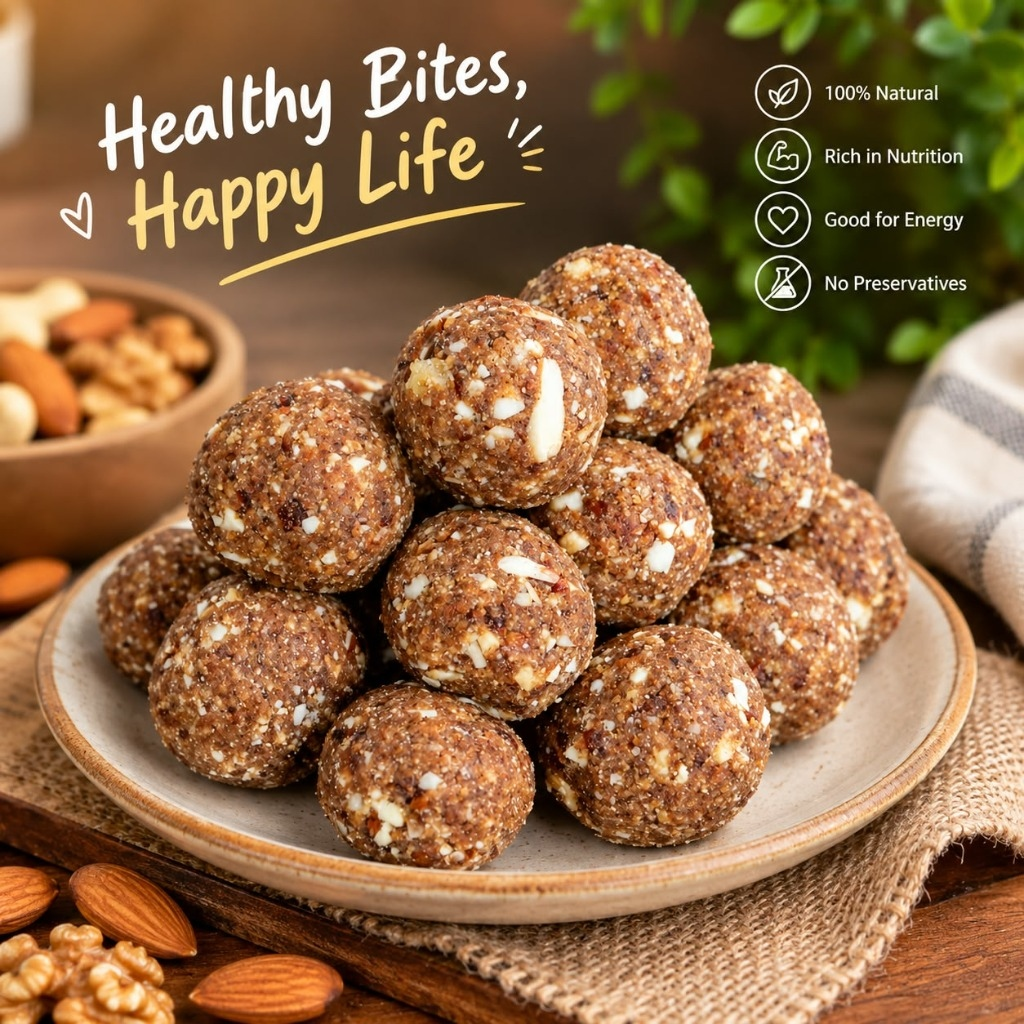
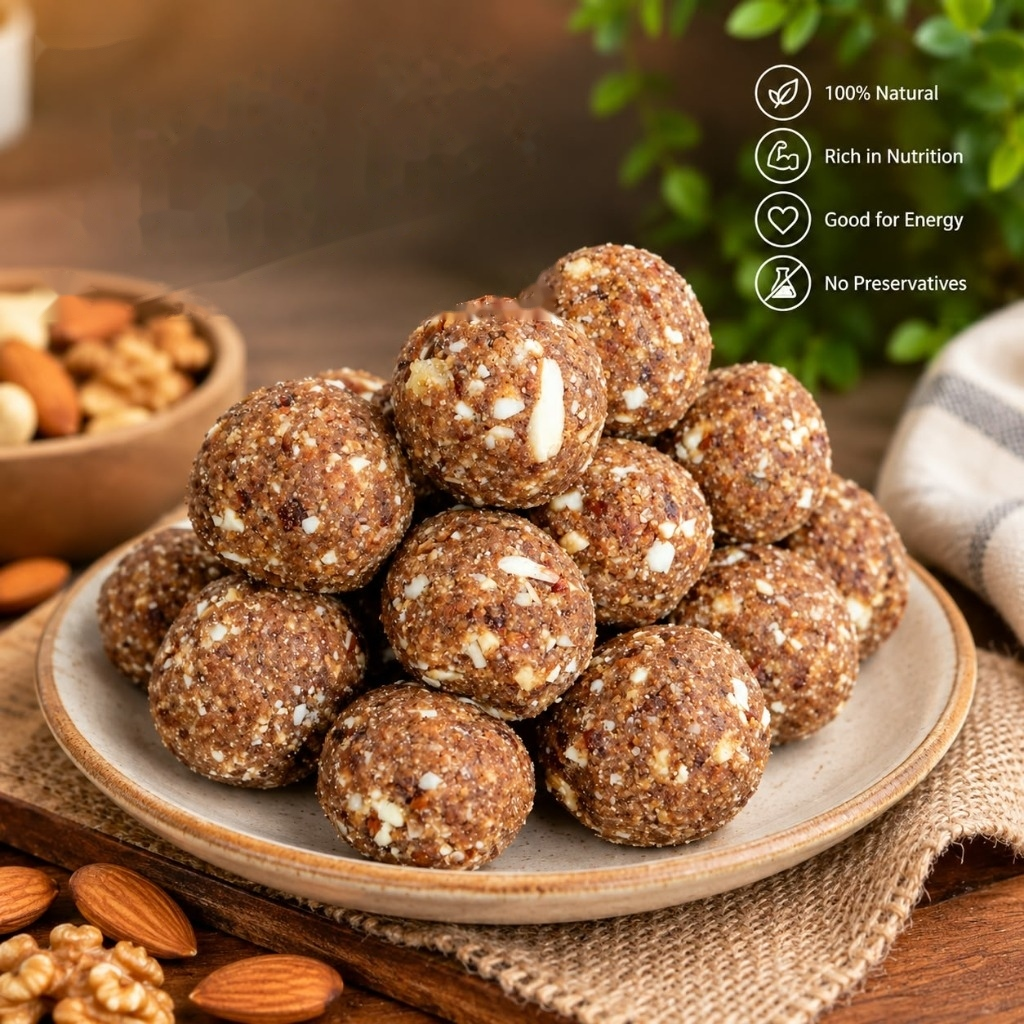
feat: cleanly remove 'Healthy Bites, Happy Life' text overlay from hero image

diff --git a/src/components/HeroSection.jsx b/src/components/HeroSection.jsx
@@ -63,7 +63,7 @@ export default function HeroSection() {
             <div className="inline-flex items-center gap-2 px-3.5 py-1.5 rounded-full bg-ivory border border-golden-amber/35 mb-5 shadow-soft">
               <span className="w-1.5 h-1.5 rounded-full bg-golden-amber animate-pulse" />
               <span className="text-[0.68rem] sm:text-xs font-semibold tracking-[0.22em] text-brand-brown uppercase">
-                Healthy Bites • Happy Life • Pure Cow Ghee
+                100% Natural • Pure Cow Ghee • Handcrafted Daily
               </span>
             </div>
 
@@ -80,7 +80,7 @@ export default function HeroSection() {
 
             {/* Supporting Copy */}
             <p className="text-sm sm:text-base lg:text-lg text-muted-taupe leading-relaxed max-w-xl font-normal">
-              Healthy Bites, Happy Life. Discover our handcrafted selection of authentic dry fruit laddus, loaded with whole almonds, walnuts, cashews, and pure desi cow ghee for lasting daily energy.
+              A healthy treat packed with nature’s best ingredients. Discover our handcrafted selection of authentic dry fruit laddus, loaded with whole almonds, walnuts, cashews, and pure desi cow ghee for lasting vitality.
             </p>
 
             {/* Action Buttons */}
